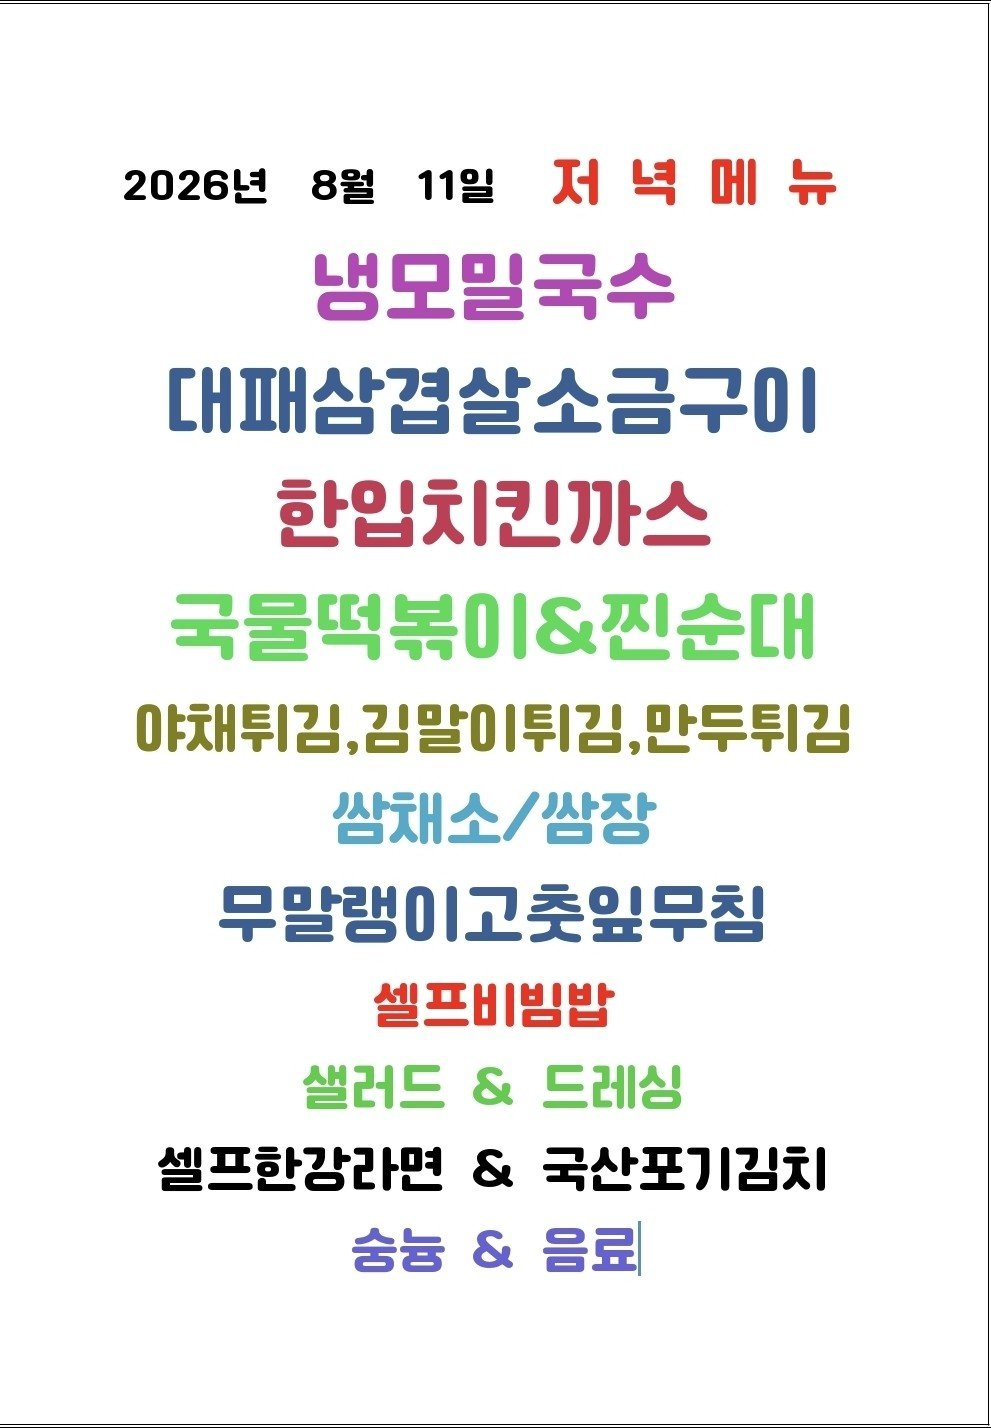
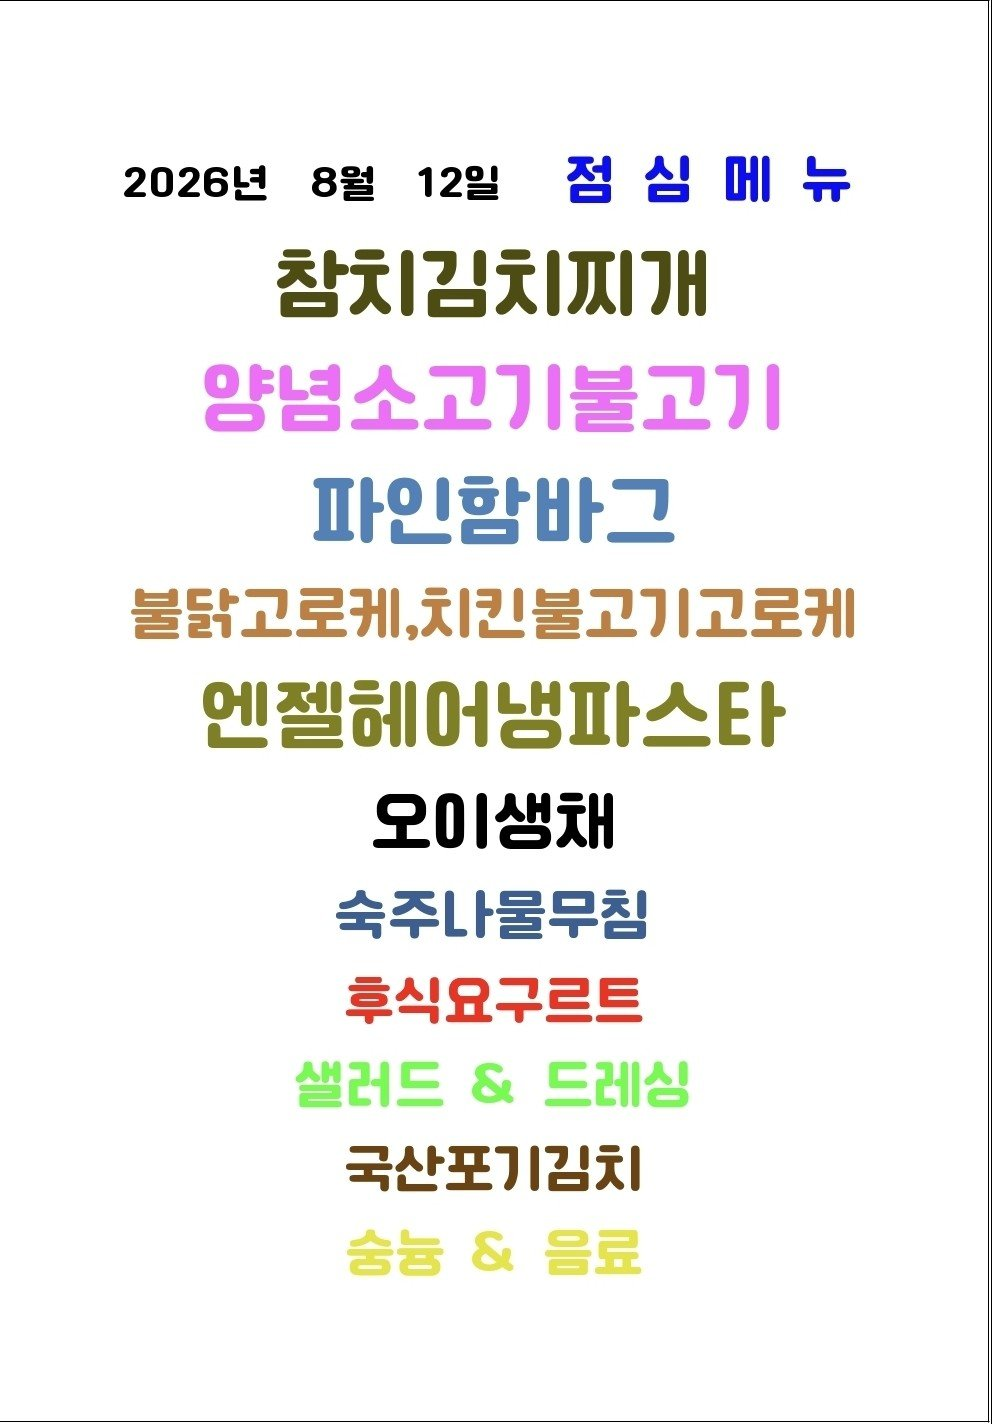
Update menu board assets

Changed region(s): [[0.1211, 0.0927, 0.8779, 0.8961], [0.0, 0.0, 1.0, 1.0], [0.1211, 0.0927, 0.2725, 0.1545]]

diff --git a/menu-today/index.html b/menu-today/index.html
@@ -209,7 +209,7 @@
 
     <section class="meta-bar">
       <div class="meta-card"><div class="meta-label">기준 날짜</div><div class="meta-value">2026년 8월 12일 수요일</div></div>
-      <div class="meta-card"><div class="meta-label">최종 가져온 시간</div><div class="meta-value">2026-08-12 09:18:16</div></div>
+      <div class="meta-card"><div class="meta-label">최종 가져온 시간</div><div class="meta-value">2026-08-12 09:33:37</div></div>
       <div class="meta-card"><div class="meta-label">확인 완료</div><div class="meta-value">9개 식당</div></div>
       <div class="meta-card"><div class="meta-label">준비중</div><div class="meta-value">3개 채널</div></div>
     </section>
@@ -265,7 +265,7 @@
             <div class="sub">가산비즈니스센터</div>
           </div>
         </div>
-        <div class="menu-inline-image"><img src="./images/raonfood.png" alt="구내식당라온푸드 식단 이미지"></div><div class="info-note">오늘 메뉴 미수집 상태입니다.</div>
+        <div class="menu-inline-image"><img src="./images/raonfood.png" alt="구내식당라온푸드 식단 이미지"></div><ul><li>잠지김지찌개</li><li>양념소고 )불고 )</li><li>파인함바그</li><li>불닭고로케,치킨불고 )고로케</li><li>엔젤헤머냄파스타</li><li>숙주나물무침</li><li>후식요구르트</li><li>샐러드 &amp; 드레싱</li><li>ze &amp; 음료</li><li>량념소고 )불고 )</li></ul>
       </article>
 
       <article class="restaurant-card">

diff --git a/guro-menu/index.html b/guro-menu/index.html
@@ -32,7 +32,7 @@
   </header>
   <section class="meta">
     <div><small>기준 날짜</small><strong>2026년 8월 12일 수요일</strong></div>
-    <div><small>최종 갱신</small><strong>2026-08-12 09:18:32</strong></div>
+    <div><small>최종 갱신</small><strong>2026-08-12 09:33:53</strong></div>
     <div><small>등록 식당</small><strong>5개</strong></div>
   </section>
   <div class="notice">공개 카카오 채널의 메뉴 이미지를 자동 수집하고 OCR로 정리합니다. 텍스트에 오타가 있을 수 있으니 식단 이미지를 함께 확인해 주세요.</div>
